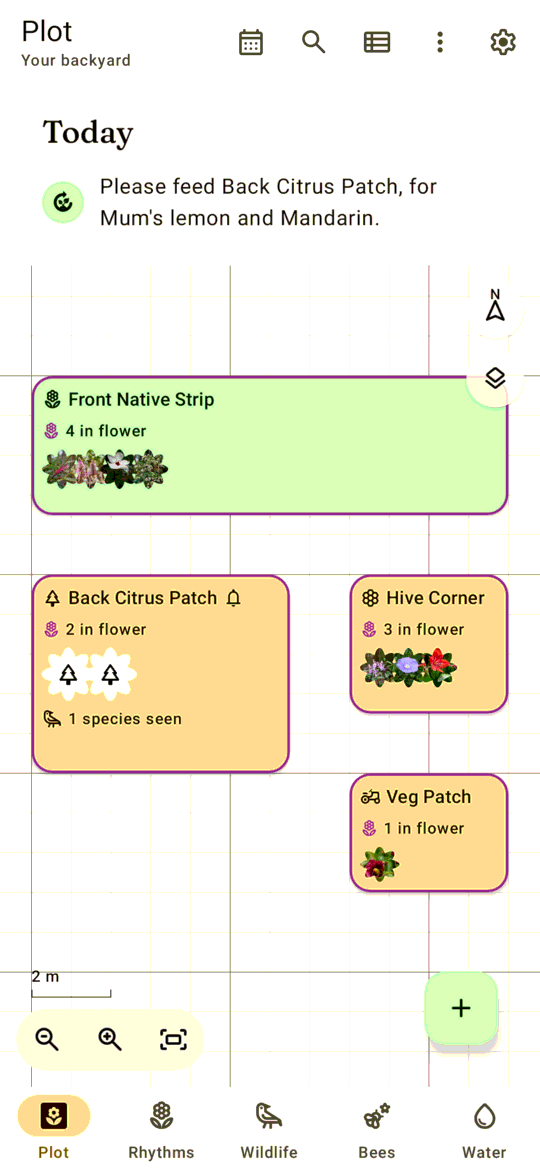
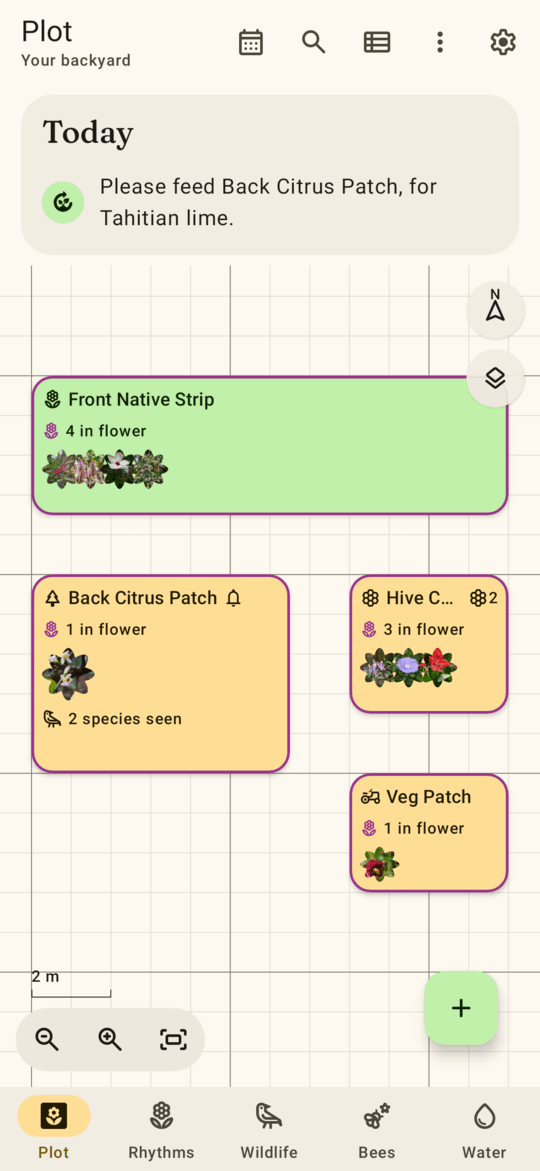
Add the lime tree, and its sugarbag bee, to the README's garden
The Back Citrus Patch is the Tahitian lime from its photo, in place of the
lemon and mandarin that had none, and the stingless bee on its flower is a
sugarbag bee seen pollinating it, which the Bees tab now shows.

diff --git a/app/src/test/java/io/github/wkoller/pollenplot/ReadmeScreensTest.kt b/app/src/test/java/io/github/wkoller/pollenplot/ReadmeScreensTest.kt
@@ -192,8 +192,7 @@ class ReadmeScreensTest {
             addPlant("pink-spikes", "Ptilotus exaltatus", null, front.id, daysAgo(5))
             addPlant("white-hibiscus", "Hibiscus heterophyllus", null, front.id, daysAgo(2))
             addPlant("flowering-shrub", "Pavetta australiensis", null, front.id, daysAgo(9))
-            val lemon = garden.addPlant("Citrus × limon", "Mum's lemon", citrus.id)
-            garden.addPlant("Citrus reticulata", null, citrus.id)
+            val lime = addPlant("lime-tree", "Citrus × latifolia", null, citrus.id, daysAgo(1))
             addPlant("lilac-flower", null, "Plectranthus", hive.id, daysAgo(4))
             addPlant("blue-flower", "Convolvulus sabatius", null, hive.id, daysAgo(6))
             addPlant("red-lily", null, "Hippeastrum", hive.id, daysAgo(12))
@@ -204,15 +203,16 @@ class ReadmeScreensTest {
             addSighting("galah", LifeGroup.BIRD, IdSource.AIY_BIRDS, "Eolophus roseicapilla", "Galah", front.id, emptyList(), setOf(Behaviour.FEEDING), 2, daysAgo(1))
             addSighting("honey-bees", LifeGroup.INSECT, IdSource.AIY_INSECTS, "Apis mellifera", "European honey bee", hive.id, emptyList(), setOf(Behaviour.NESTING), 20, daysAgo(3))
             addSighting("stingless-hives", LifeGroup.INSECT, IdSource.AIY_INSECTS, "Tetragonula carbonaria", "Sugarbag bee", hive.id, emptyList(), setOf(Behaviour.NESTING), 40, daysAgo(8))
+            // The sugarbag bee in the lime's flowers, as a photo of the flower it is on.
+            addSighting("lime-tree", LifeGroup.INSECT, IdSource.AIY_INSECTS, "Tetragonula carbonaria", "Sugarbag bee", citrus.id, listOf(lime), setOf(Behaviour.POLLINATING), 2, daysAgo(1), BoxBp(3_400, 4_900, 5_900, 6_400))
             addSighting("tree-frog", LifeGroup.FROG, IdSource.AIY_INSECTS, "Litoria fallax", "Eastern dwarf tree frog", hive.id, emptyList(), setOf(Behaviour.RESTING), 1, daysAgo(10))
-            addSighting("citrus-bug", LifeGroup.INSECT, IdSource.AIY_INSECTS, "Musgraveia sulciventris", "Bronze orange bug", citrus.id, listOf(lemon.id), setOf(Behaviour.FEEDING), 1, daysAgo(15))
+            addSighting("citrus-bug", LifeGroup.INSECT, IdSource.AIY_INSECTS, "Musgraveia sulciventris", "Bronze orange bug", citrus.id, listOf(lime), setOf(Behaviour.FEEDING), 1, daysAgo(15))
         }
     }
 
-    private suspend fun analysed(name: String, group: LifeGroup, source: IdSource, label: String, takenAt: java.time.Instant): DetectionRecord {
+    private suspend fun analysed(name: String, group: LifeGroup, source: IdSource, label: String, takenAt: java.time.Instant, box: BoxBp = MOST): DetectionRecord {
         val photo = photo(name)
-        // Most of the frame, as the camera's square guide would hold it.
-        val region = { bitmap: Bitmap -> listOf(FastPlantIdentifier.region(bitmap, BoxBp(800, 800, 9_200, 9_200), mapOf(source to listOf(LabelScore(label, 7_000))), group)) }
+        val region = { bitmap: Bitmap -> listOf(FastPlantIdentifier.region(bitmap, box, mapOf(source to listOf(LabelScore(label, 7_000))), group)) }
         val identifier = ScriptedIdentifier(animalFor = { bitmap, _ -> region(bitmap) }) { region(it) }
         val container = app.container
         val analysis = PhotoAnalysis({ identifier }, container.photos, garden, container.knowledge, container.clock)
@@ -226,9 +226,9 @@ class ReadmeScreensTest {
 
     private suspend fun addSighting(
         photo: String, group: LifeGroup, source: IdSource, species: String, label: String, zoneId: String,
-        plantIds: List<String>, behaviours: Set<Behaviour>, count: Int, takenAt: java.time.Instant,
+        plantIds: List<String>, behaviours: Set<Behaviour>, count: Int, takenAt: java.time.Instant, box: BoxBp = MOST,
     ) {
-        val find = analysed(photo, group, source, species, takenAt)
+        val find = analysed(photo, group, source, species, takenAt, box)
         garden.confirmSighting(find.id, species, label, group, zoneId, plantIds, behaviours, count)
     }
 
@@ -250,5 +250,10 @@ class ReadmeScreensTest {
         val dir = File(System.getProperty("screenshots.dir") ?: "build/screenshots").apply { mkdirs() }
         val bitmap = compose.onRoot().captureToImage().asAndroidBitmap()
         File(dir, "$name.png").outputStream().use { bitmap.compress(Bitmap.CompressFormat.PNG, 100, it) }
+    }
+
+    private companion object {
+        /** Most of the frame, as the camera's square guide would hold it. */
+        val MOST = BoxBp(800, 800, 9_200, 9_200)
     }
 }

diff --git a/README.md b/README.md
@@ -65,7 +65,7 @@ Grow Me Instead booklets.
 
 <p align="center">
   <img src="docs/screenshots/wildlife.png" width="250" alt="The Wildlife tab, with five species seen this year, a bronze orange bug among the garden pests, and a galah among the birds, each with a cut-out from its photo">
-  <img src="docs/screenshots/bees.png" width="250" alt="The Bees tab on native bees, with two sugarbag hives in the Hive Corner and the sugarbag bee seen this year, shown with its photo">
+  <img src="docs/screenshots/bees.png" width="250" alt="The Bees tab on native bees, with two sugarbag hives in the Hive Corner and the sugarbag bee seen this year, shown on a lime flower">
 </p>
 
 The Wildlife tab shows a year of animals seen in your yard: which are native, which were new this year, and when each
